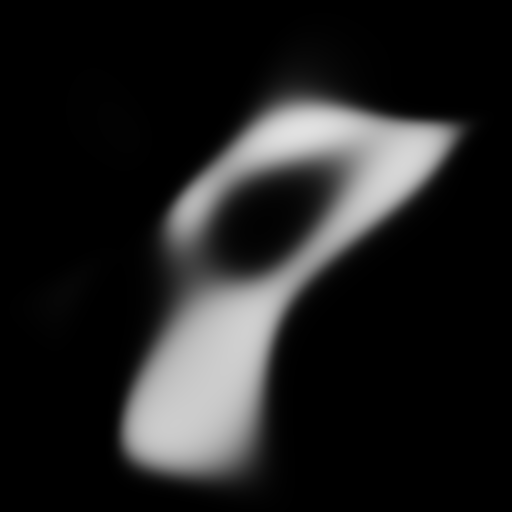
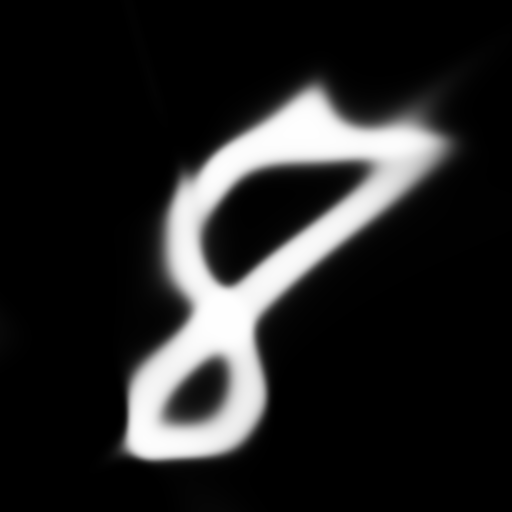
[UI] slider done!

Changed region(s): [[0.2188, 0.1562, 0.9062, 0.9688]]

diff --git a/upscale_img.cpp b/upscale_img.cpp
@@ -7,6 +7,7 @@
 #include <float.h>
 
 #include "raylib.h"
+#include "raymath.h"
 
 #define STB_IMAGE_IMPLEMENTATION
 #include "stb_image.h"
@@ -275,7 +276,7 @@ int main(int argc, char** argv)
 	SetTargetFPS(60);
 
 	// preview images
-	int factor = 1;
+	int factor = 3;
 	int prev_width = img1_width*factor;
 	int prev_height = img1_height*factor;
 
@@ -293,6 +294,7 @@ int main(int argc, char** argv)
 	Texture2D preview_texture = LoadTextureFromImage(preview_image);
 
 	bool paused = false;
+	bool scroll_dragging = false;
 	float scroll = 0.0f;
 
 	while (!WindowShouldClose()) {
@@ -429,11 +431,32 @@ int main(int argc, char** argv)
 			Vector2 size = { prev_width * scale / factor, rh * 0.004f };
 			float knob_radius = rh * 0.01;
 			Vector2 knob_position = { rx + size.x * scroll, position.y + size.y * 0.5f };
+			
 			DrawRectangleV(position, size, WHITE);
 			DrawCircleV(knob_position , knob_radius, RED);
-			
 			snprintf(buffer, sizeof(buffer), "%.2f", scroll);
 			DrawText(buffer, rx + size.x * scroll, position.y + size.y + h * 0.01f, h * 0.005f, WHITE);
+
+			if (scroll_dragging) {
+				float x = GetMousePosition().x;
+
+				if (x < position.x) x = position.x;
+				if (x > position.x + size.x) x = position.x + size.x;
+				scroll = (x - position.x) / size.x;
+			}
+
+			if (IsMouseButtonPressed(MOUSE_BUTTON_LEFT)) {
+				Vector2 mouse_position = GetMousePosition();
+				if (Vector2Distance(mouse_position, knob_position) <= knob_radius) {
+					scroll_dragging = true;
+					printf("[DRAG] True\n");
+				}
+			}
+
+			if (IsMouseButtonReleased(MOUSE_BUTTON_LEFT)) {
+				scroll_dragging = false;
+				printf("[DRAG] False\n");
+			}
 			
 			// info render
 			if (!paused) {
